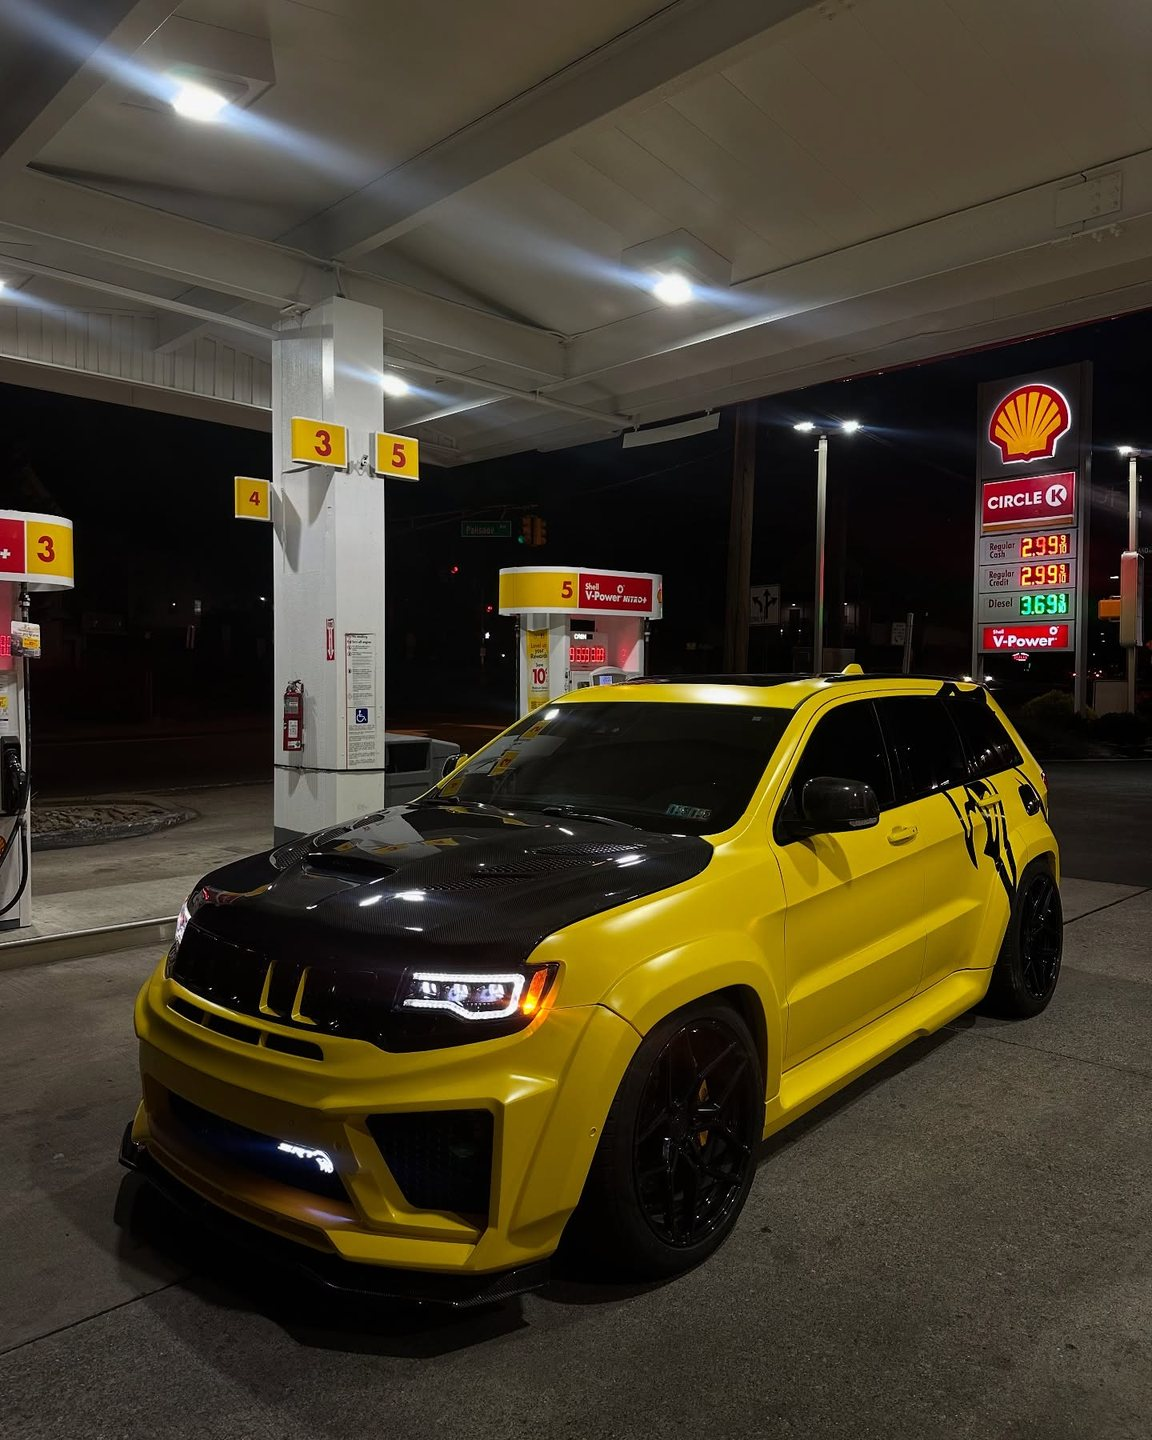
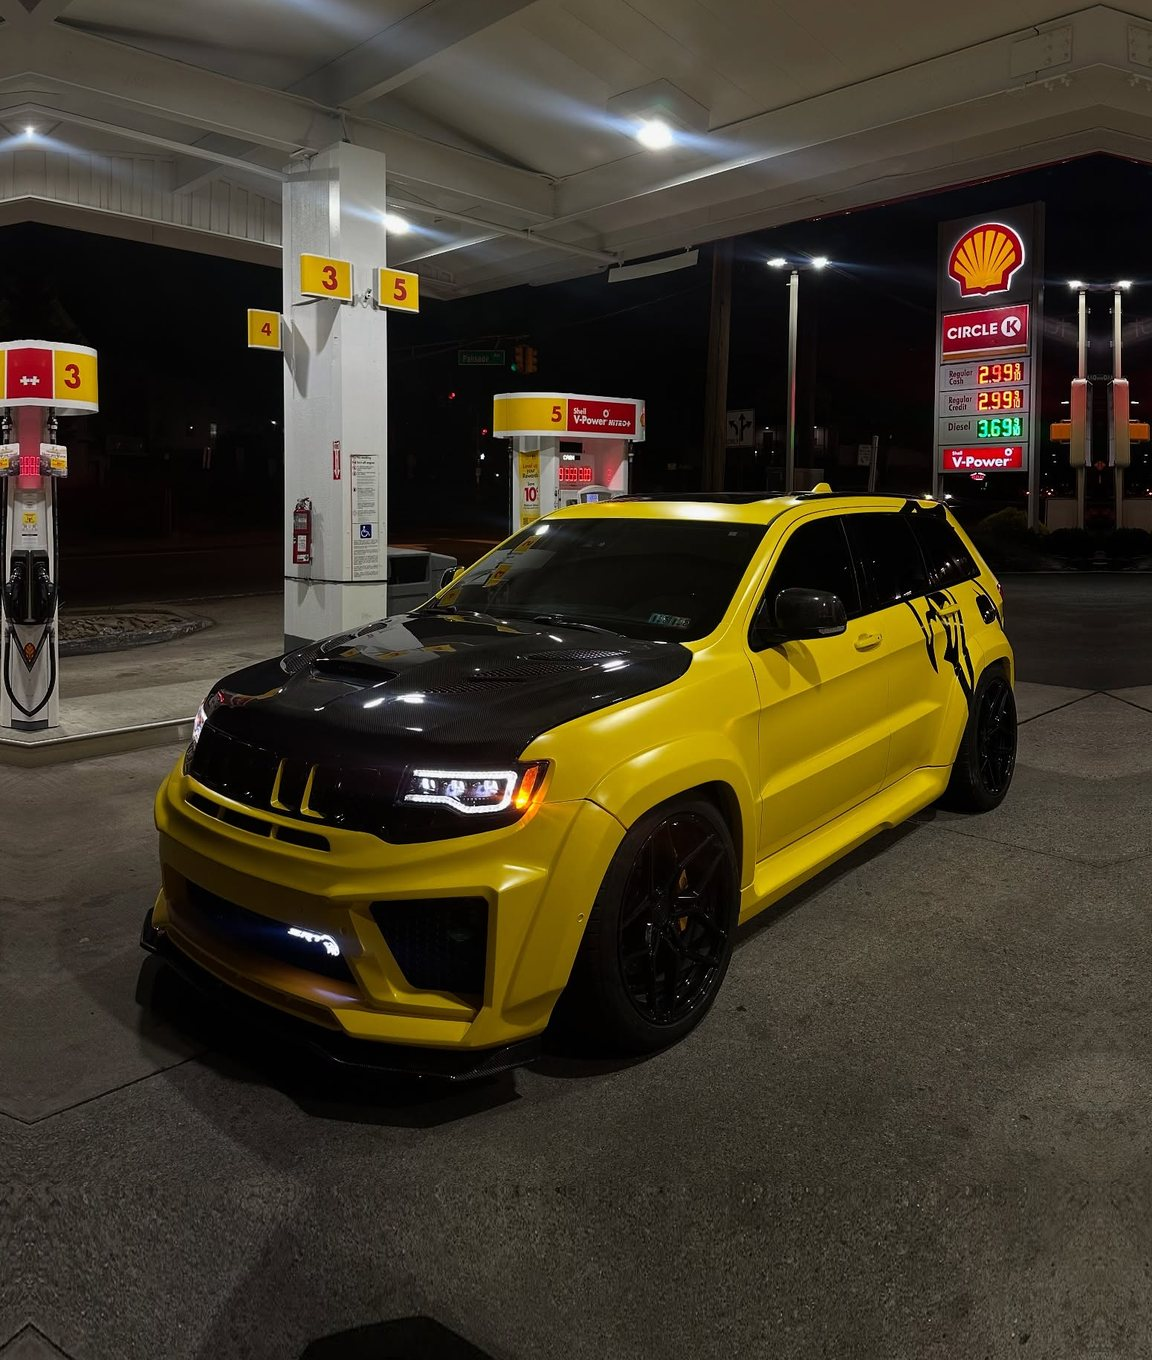
Body Kits tile zoomed out so the title clears the car; Performance Steerings renamed Interior Technology

diff --git a/src/data/editorial.ts b/src/data/editorial.ts
@@ -102,8 +102,8 @@ export const editorial = {
         src: bodyKits,
         alt: 'Yellow widebody Jeep Grand Cherokee Trackhawk with a carbon bonnet and black wheels at a gas station at night',
         width: 1152,
-        height: 1440,
-        position: '50% 70%', // whole car, title on the forecourt below the splitter
+        height: 1360,
+        position: '50% 50%', // zoomed out (canopy trimmed, forecourt extended): title sits below the splitter
       },
     },
     {
@@ -119,8 +119,8 @@ export const editorial = {
       },
     },
     {
-      id: 'performance-steering',
-      title: 'Performance Steerings',
+      id: 'interior-technology',
+      title: 'Interior Technology',
       media: {
         type: 'image',
         src: steeringWheels,
